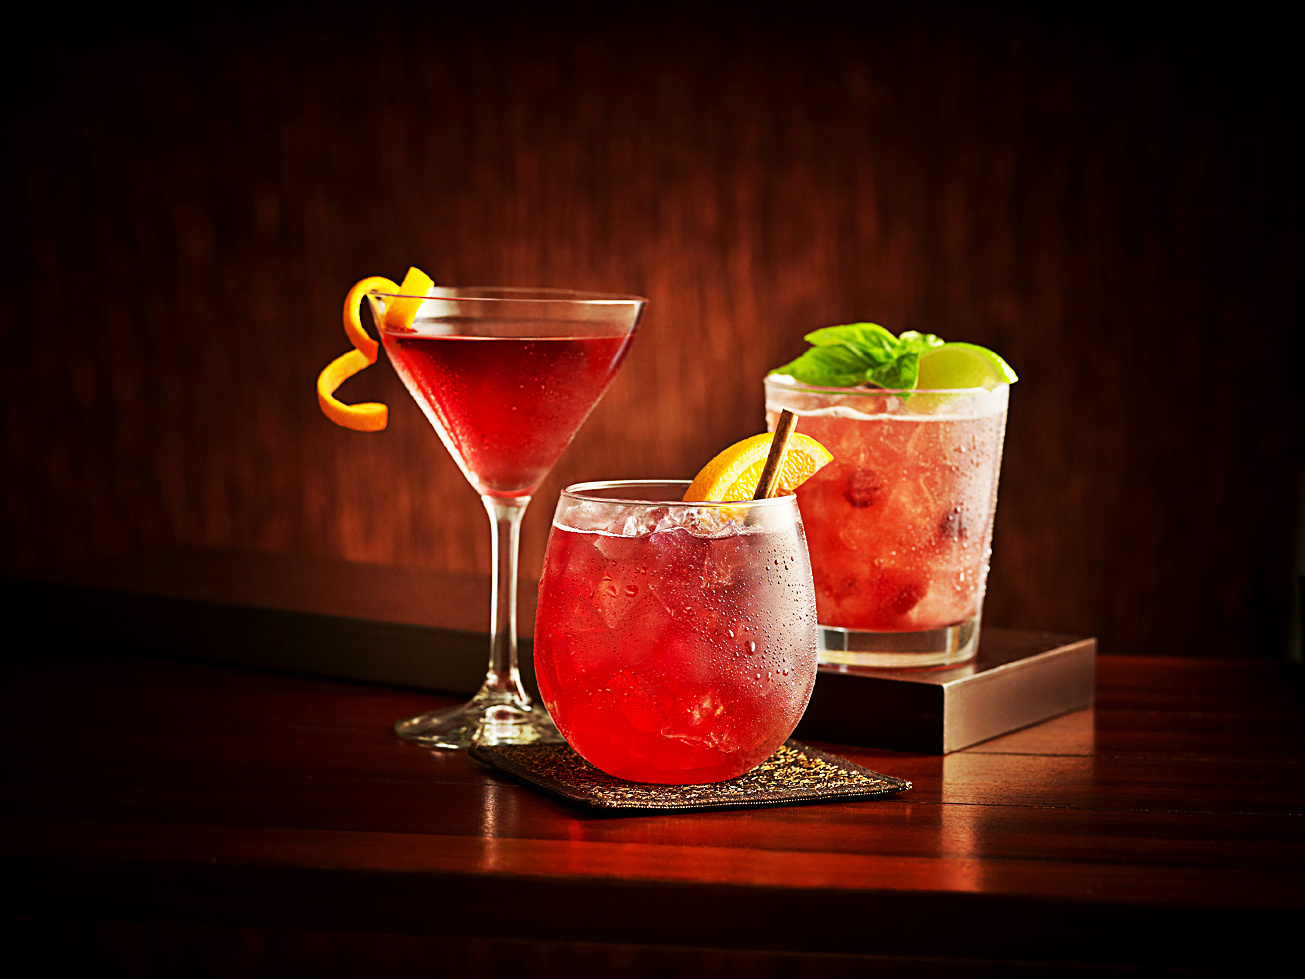
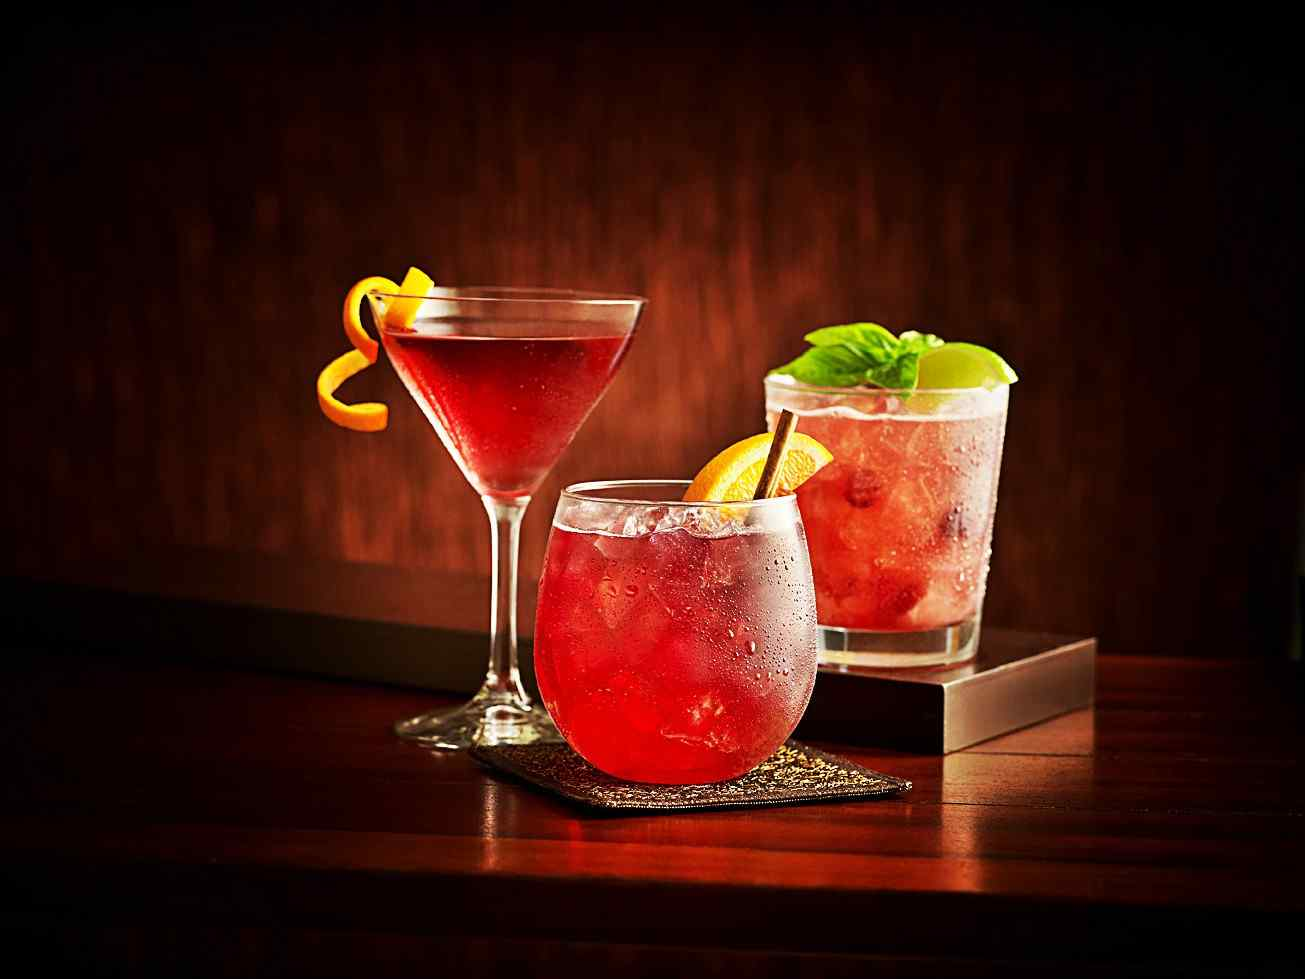
reduce image sizes

diff --git a/index.html b/index.html
@@ -505,7 +505,7 @@
             <!-- NON VEG Section -->
             <div class="col-sm-3 col-md-3">
                 <div class="menu-images">
-                    <img loading="lazy" src="img/menu/non-veg.png" alt="Non Veg"/>
+                    <img loading="lazy" src="img/menu/non-veg.jpeg" alt="Non Veg"/>
                 </div>
                 <div class="menu-titles"><h1>Non Veg Menu</h1></div>
                 <div class="menu-items">
@@ -540,7 +540,7 @@
             <!-- VEG Section -->
             <div class="col-sm-3 col-md-3">
                 <div class="menu-images">
-                    <img loading="lazy" src="img/menu/veg.png" alt="Veg"/>
+                    <img loading="lazy" src="img/menu/veg.jpeg" alt="Veg"/>
                 </div>
                 <div class="menu-titles"><h1>Veg Menu</h1></div>
                 <div class="menu-items">
@@ -568,7 +568,7 @@
             <!-- MUTTON ITEMS Section -->
             <div class="col-sm-3 col-md-3">
                 <div class="menu-images">
-                    <img loading="lazy" src="img/menu/mutton-items.png" alt="Mutton Items"/>
+                    <img loading="lazy" src="img/menu/mutton-item.jpeg" alt="Mutton Items"/>
                 </div>
                 <div class="menu-titles"><h1>Mutton Items</h1></div>
                 <div class="menu-items">
@@ -594,7 +594,7 @@
             <!-- FISH ITEMS Section -->
             <div class="col-sm-3 col-md-3">
                 <div class="menu-images">
-                    <img loading="lazy" src="img/menu/fish-items.png" alt="Fish Items (Seasonal)"/>
+                    <img loading="lazy" src="img/menu/fish-item.jpeg" alt="Fish Items (Seasonal)"/>
                 </div>
                 <div class="menu-titles"><h1>Fish Items (Seasonal)</h1></div>
                 <div class="menu-items">
@@ -616,7 +616,7 @@
             <!-- SOUP Section -->
             <div class="col-sm-3 col-md-3">
                 <div class="menu-images">
-                    <img loading="lazy" src="img/menu/soup.png" alt="Soup"/>
+                    <img loading="lazy" src="img/menu/soup.jpeg" alt="Soup"/>
                 </div>
                 <div class="menu-titles"><h1>Soup</h1></div>
                 <div class="menu-items">
@@ -635,7 +635,7 @@
             <!-- SALAD Section -->
             <div class="col-sm-3 col-md-3">
                 <div class="menu-images">
-                    <img loading="lazy" src="img/menu/salad.png" alt="Salad"/>
+                    <img loading="lazy" src="img/menu/salad.jpeg" alt="Salad"/>
                 </div>
                 <div class="menu-titles"><h1>Salad</h1></div>
                 <div class="menu-items">
@@ -693,7 +693,7 @@
             <!-- STARTERS Section -->
             <div class="col-sm-3 col-md-3">
                 <div class="menu-images">
-                    <img loading="lazy" src="img/menu/starters.png" alt="Starters"/>
+                    <img loading="lazy" src="img/menu/starter.jpeg" alt="Starters"/>
                 </div>
                 <div class="menu-titles"><h1>Starters</h1></div>
                 <div class="menu-items">
@@ -715,7 +715,7 @@
             <!-- RICE ITEMS Section -->
             <div class="col-sm-3 col-md-3">
                 <div class="menu-images">
-                    <img loading="lazy" src="img/menu/rice-items.png" alt="Rice Items"/>
+                    <img loading="lazy" src="img/menu/rice-item.jpeg" alt="Rice Items"/>
                 </div>
                 <div class="menu-titles"><h1>Rice Items</h1></div>
                 <div class="menu-items">
@@ -762,7 +762,7 @@
             <!-- PAYASAM Section -->
             <div class="col-sm-3 col-md-3">
                 <div class="menu-images">
-                    <img loading="lazy" src="img/menu/payasam-items.png" alt="Payasam Items"/>
+                    <img loading="lazy" src="img/menu/payasam-item.jpeg" alt="Payasam Items"/>
                 </div>
                 <div class="menu-titles"><h1>Payasam</h1></div>
                 <div class="menu-items">
@@ -802,7 +802,7 @@
             <!-- ICE CREAMS Section -->
             <div class="col-sm-3 col-md-3">
                 <div class="menu-images">
-                    <img loading="lazy" src="img/menu/icecream-items.png" alt="Ice Cream Items"/>
+                    <img loading="lazy" src="img/menu/icecream-item.jpeg" alt="Ice Cream Items"/>
                 </div>
                 <div class="menu-titles"><h1>Ice Creams</h1></div>
                 <div class="menu-items">
@@ -823,7 +823,7 @@
             <!-- VEG CHINESE ITEM Section -->
             <div class="col-sm-3 col-md-3">
                 <div class="menu-images">
-                    <img loading="lazy" src="img/menu/veg-chinese-items.png" alt="Veg Chinese Items"/>
+                    <img loading="lazy" src="img/menu/veg-chinese-item.jpeg" alt="Veg Chinese Items"/>
                 </div>
                 <div class="menu-titles"><h1>Veg Chinese Items</h1></div>
                 <div class="menu-items">
@@ -849,7 +849,7 @@
             <!-- FRY ITEMS Section -->
             <div class="col-sm-3 col-md-3">
                 <div class="menu-images">
-                    <img loading="lazy" src="img/menu/fry-items.png" alt="Fry Items"/>
+                    <img loading="lazy" src="img/menu/fry-item.jpeg" alt="Fry Items"/>
                 </div>
                 <div class="menu-titles"><h1>Fry Items</h1></div>
                 <div class="menu-items">
@@ -867,7 +867,7 @@
             <!-- CHICKEN ITEMS Section -->
             <div class="col-sm-3 col-md-3">
                 <div class="menu-images">
-                    <img loading="lazy" src="img/menu/chicken-items.png" alt="Chicken Items"/>
+                    <img loading="lazy" src="img/menu/chicken-item.jpeg" alt="Chicken Items"/>
                 </div>
                 <div class="menu-titles"><h1>Chicken Items</h1></div>
                 <div class="menu-items">
@@ -908,7 +908,7 @@
             <!-- NON VEG RICE ITEMS Section -->
             <div class="col-sm-3 col-md-3">
                 <div class="menu-images">
-                    <img loading="lazy" src="img/menu/non-veg-rice-items.png" alt="Non Veg Rice Items"/>
+                    <img loading="lazy" src="img/menu/non-veg-rice-item.jpeg" alt="Non Veg Rice Items"/>
                 </div>
                 <div class="menu-titles"><h1>Non Veg Rice Items</h1></div>
                 <div class="menu-items">
@@ -926,7 +926,7 @@
             <!-- VEG CURRY ITEMS Section -->
             <div class="col-sm-3 col-md-3">
                 <div class="menu-images">
-                    <img loading="lazy" src="img/menu/veg-curry-items.png" alt="Veg Curry Items"/>
+                    <img loading="lazy" src="img/menu/veg-curry-item.jpeg" alt="Veg Curry Items"/>
                 </div>
                 <div class="menu-titles"><h1>Veg Curry Items</h1></div>
                 <div class="menu-items">
